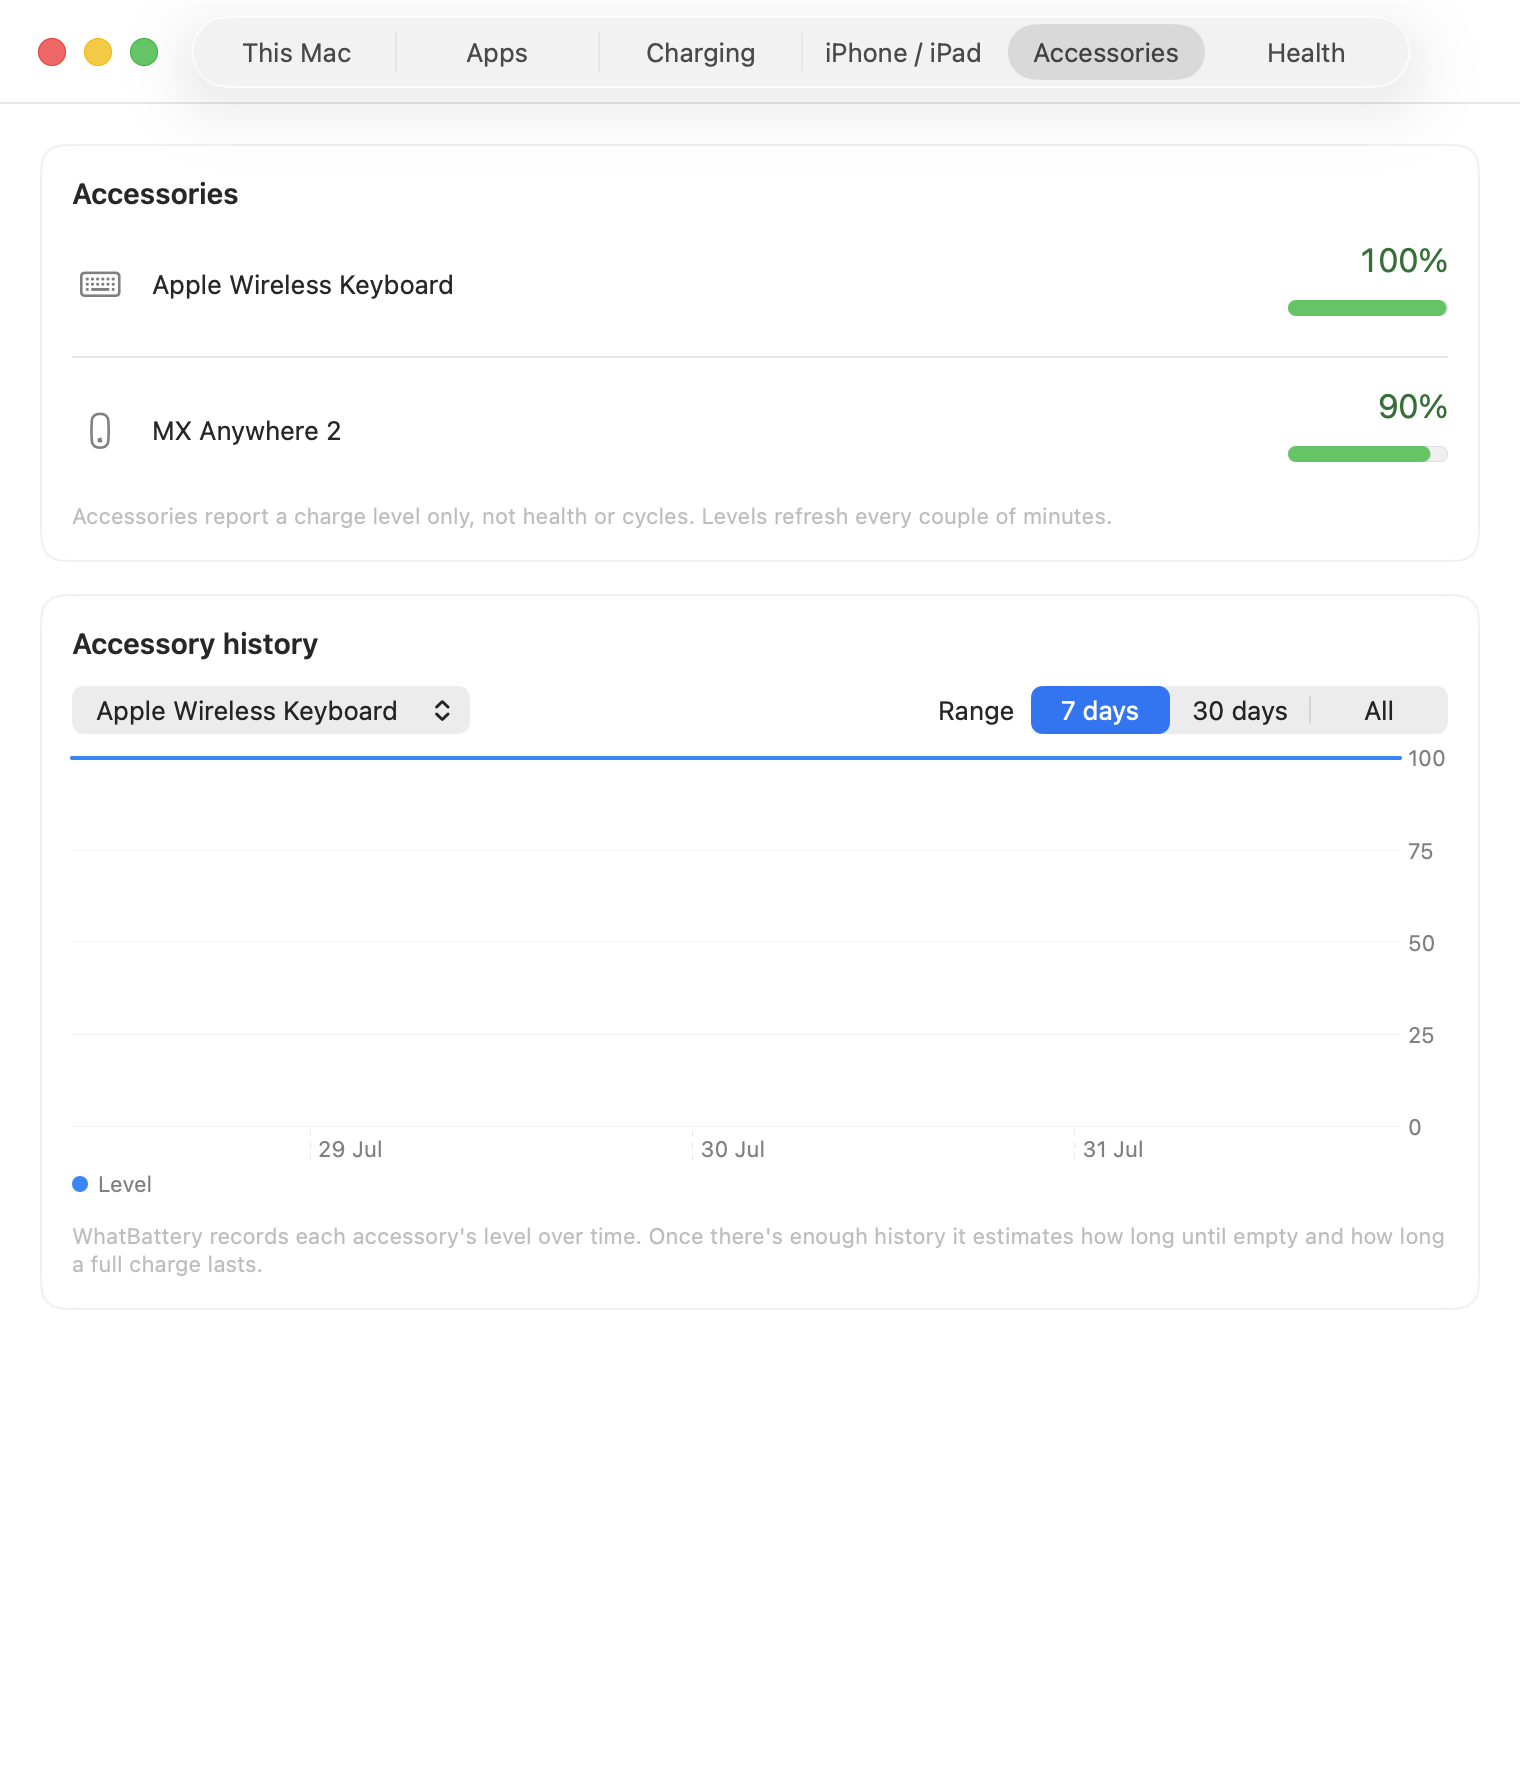
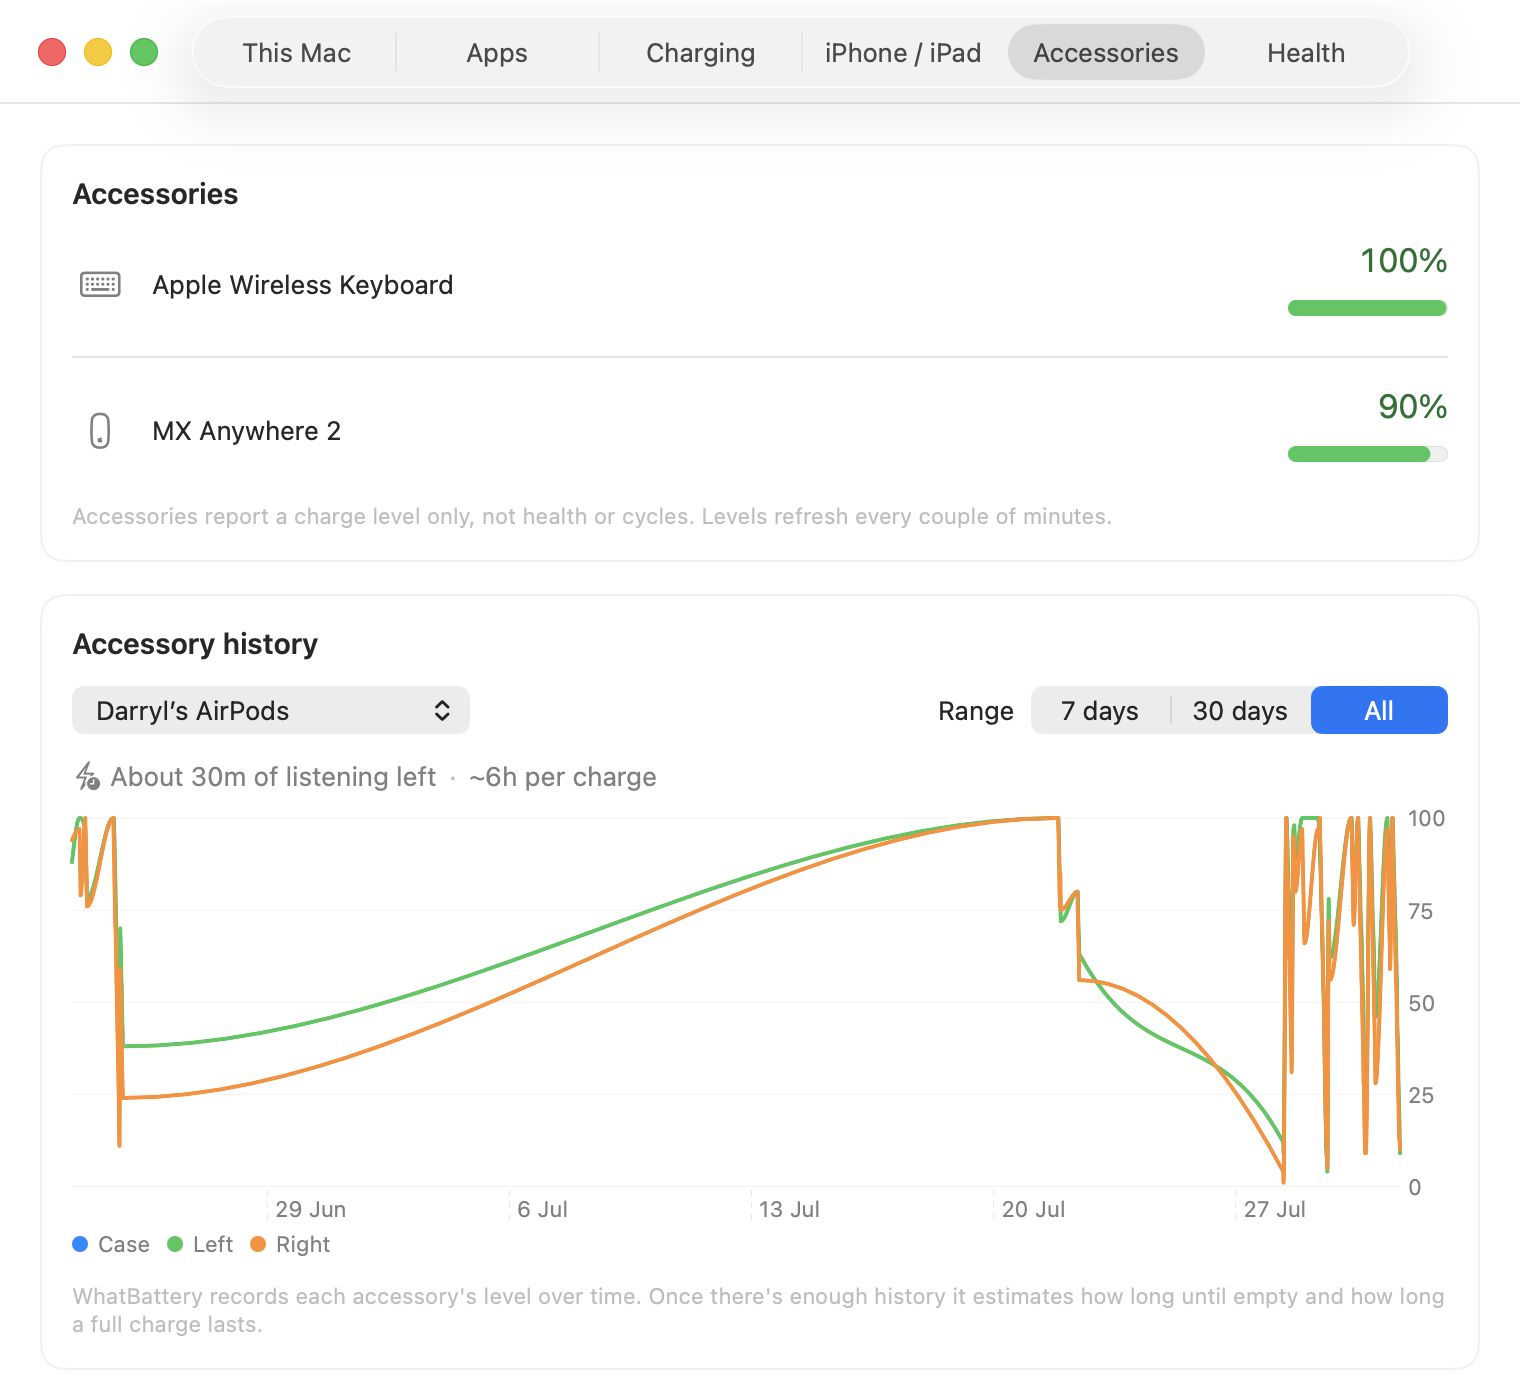
Mirror from private (f3662e4)

diff --git a/docs/pro/index.html b/docs/pro/index.html
@@ -25,7 +25,7 @@
     <link rel="preconnect" href="https://fonts.googleapis.com" />
     <link rel="preconnect" href="https://fonts.gstatic.com" crossorigin />
     <link href="https://fonts.googleapis.com/css2?family=Inter:wght@400;500;600;700;800&display=swap" rel="stylesheet" />
-    <link rel="stylesheet" href="/css/style.css?v=9616c6eed4e6" />
+    <link rel="stylesheet" href="/css/style.css?v=049d00fb9cba" />
   </head>
   <body>
     <a class="skip-link" href="#main">Skip to content</a>
@@ -58,7 +58,9 @@
 
 <section class="soft-section"><div class="wrap feature-lead"><div class="feature-copy"><span class="section-tag">All your devices</span><h2>Bring the iPhone and iPad into the same record.</h2><p>Read connected-device health over USB or Wi-Fi without installing another app. Pro retains sparse, long-term health and cycle history so the devices do not vanish from view when they disconnect.</p><ul class="benefit-list"><li>Health, cycles, temperature, voltage, and live power</li><li>Current-session graph</li><li>Long-term monthly health record</li><li>Mac and connected-device history in one tab</li></ul></div><img src="/img/screenshot-idevice.png" alt="WhatBattery Pro showing a connected iPad Air's battery health and a charge session on the live graph, with a picker to switch to the iPhone" width="440" loading="lazy" /></div></section>
 
-<section><div class="wrap"><div class="section-head center"><span class="section-tag">Five reasons to go Pro</span><h2>Forecast, diagnose, track, prove, and know before it dies.</h2><p>Pro groups the deeper features around the decisions they help you make.</p></div><div class="card-grid two">
+<section><div class="wrap feature-lead"><img src="/img/screenshot-accessories.png" alt="WhatBattery Pro accessory history: AirPods level per bud over a month, with the runtime forecast" width="440" loading="lazy" /><div class="feature-copy"><span class="section-tag">Before it dies</span><h2>Know the keyboard is going flat days before it does.</h2><p>A Bluetooth accessory reports a charge level and nothing else: no health, no cycles, no warning. Pro records that level over time and turns it into a forecast, so a dead mouse in the middle of something is a thing you saw coming.</p><ul class="benefit-list"><li>Level history per accessory, kept for months</li><li>How long is left: days for a mouse, listening time for AirPods</li><li>Roughly how long a full charge lasts</li><li>AirPods tracked per bud and case</li><li>A low-battery alert that fires before it dies, and says how long is left</li><li>Any accessory's level shown in the menu bar</li></ul></div></div></section>
+
+<section class="soft-section"><div class="wrap"><div class="section-head center"><span class="section-tag">Five reasons to go Pro</span><h2>Forecast, diagnose, track, prove, and know before it dies.</h2><p>Pro groups the deeper features around the decisions they help you make.</p></div><div class="card-grid two">
   <article class="card"><div class="card-icon" aria-hidden="true">↘</div><h3>Forecast the replacement</h3><p>Measure wear rate, project the window in which a Mac may reach 80% health, and catch a battery that starts ageing faster than its own trend. No projection at all until the history can support one.</p><a class="text-link" href="/features/history/">Explore battery runway →</a></article>
   <article class="card"><div class="card-icon" aria-hidden="true">W</div><h3>Diagnose the drain</h3><p>Rank your apps by live watts, keep the top users over time, and record how every charge performs. Supported MacBook Pro models also identify chargers that are clearly undersized.</p><a class="text-link" href="/features/power/">Explore power analysis →</a></article>
   <article class="card"><div class="card-icon" aria-hidden="true">iP</div><h3>Track every device</h3><p>Read iPhone and iPad batteries from the Mac, then keep monthly health and cycle history beside the Mac's own record.</p><a class="text-link" href="/features/iphone-ipad/">Explore connected devices →</a></article>
@@ -66,7 +68,7 @@
   <article class="card"><div class="card-icon" aria-hidden="true">BT</div><h3>Know before it dies</h3><p>Watch every Bluetooth accessory's level over time, see how long is left (days for a mouse, listening time for AirPods), and get the warning before it dies, not after.</p><a class="text-link" href="/features/accessories/">Explore accessory forecasts →</a></article>
 </div></div></section>
 
-<section id="compare" class="soft-section"><div class="wrap"><div class="section-head center"><span class="section-tag">Free versus Pro</span><h2>The free app answers “what is happening now?” Pro keeps the story.</h2></div><div class="comparison" role="table" aria-label="WhatBattery Free and Pro comparison">
+<section id="compare"><div class="wrap"><div class="section-head center"><span class="section-tag">Free versus Pro</span><h2>The free app answers “what is happening now?” Pro keeps the story.</h2></div><div class="comparison" role="table" aria-label="WhatBattery Free and Pro comparison">
   <div class="comparison-row" role="row"><span role="columnheader">Capability</span><span role="columnheader">Free</span><span role="columnheader">Pro</span></div>
   <div class="comparison-row" role="row"><span role="cell">Mac health, cycles, condition, live watts, temperature</span><span class="yes" role="cell">Included</span><span class="yes" role="cell">Included</span></div>
   <div class="comparison-row" role="row"><span role="cell">Live Bluetooth accessory levels</span><span class="yes" role="cell">Included</span><span class="yes" role="cell">Included</span></div>
@@ -81,7 +83,7 @@
   <div class="comparison-row" role="row"><span role="cell">Anonymous wear comparison (opt-in, off by default)</span><span class="dash" role="cell">Not included</span><span class="yes" role="cell">Included</span></div>
 </div></div></section>
 
-<section><div class="wrap pricing-layout"><div><span class="section-tag">One simple licence</span><h2>No subscription. No separate device plan.</h2><p class="lede">One key unlocks Pro on up to two Macs. Paste it into Settings on each Mac and keep using the same key after updates.</p><div class="faq-list" style="margin-top:32px;"><div class="faq-item"><h3>What happens after purchase?</h3><p>Stripe completes the payment and the licence key is emailed immediately. Paste it into WhatBattery's Licence settings.</p></div><div class="faq-item"><h3>What if I replace a Mac?</h3><p>Contact support through the GitHub repository and a licence slot can be freed for the replacement.</p></div><div class="faq-item"><h3>What if Pro is not right for me?</h3><p>Purchases have a 14-day money-back guarantee, no questions asked.</p></div></div></div><aside class="pricing-card" aria-label="WhatBattery Pro price"><span class="card-label">One-time purchase</span><span class="price">£9.99</span><span class="price-note">Works on up to 2 Macs</span><ul class="benefit-list"><li>Every Pro feature</li><li>Future updates to the purchased app</li><li>Licence key delivered by email</li><li>14-day money-back guarantee</li></ul><button class="button buy" type="button" data-buy-pro>Buy WhatBattery Pro</button><p class="buy-note">Secure checkout via Stripe.</p><p class="buy-error" data-buy-error role="alert" hidden></p></aside></div></section>
+<section class="soft-section"><div class="wrap pricing-layout"><div><span class="section-tag">One simple licence</span><h2>No subscription. No separate device plan.</h2><p class="lede">One key unlocks Pro on up to two Macs. Paste it into Settings on each Mac and keep using the same key after updates.</p><div class="faq-list" style="margin-top:32px;"><div class="faq-item"><h3>What happens after purchase?</h3><p>Stripe completes the payment and the licence key is emailed immediately. Paste it into WhatBattery's Licence settings.</p></div><div class="faq-item"><h3>What if I replace a Mac?</h3><p>Contact support through the GitHub repository and a licence slot can be freed for the replacement.</p></div><div class="faq-item"><h3>What if Pro is not right for me?</h3><p>Purchases have a 14-day money-back guarantee, no questions asked.</p></div></div></div><aside class="pricing-card" aria-label="WhatBattery Pro price"><span class="card-label">One-time purchase</span><span class="price">£9.99</span><span class="price-note">Works on up to 2 Macs</span><ul class="benefit-list"><li>Every Pro feature</li><li>Future updates to the purchased app</li><li>Licence key delivered by email</li><li>14-day money-back guarantee</li></ul><button class="button buy" type="button" data-buy-pro>Buy WhatBattery Pro</button><p class="buy-note">Secure checkout via Stripe.</p><p class="buy-error" data-buy-error role="alert" hidden></p></aside></div></section>
 
 <section class="cta-band"><div class="wrap cta-grid"><div><h2>Keep enough history to know what comes next.</h2><p>Unlock WhatBattery Pro once on up to two Macs.</p></div><button class="button primary" type="button" data-buy-pro>Buy Pro · £9.99</button></div></section>
 

diff --git a/docs/css/style.css b/docs/css/style.css
@@ -143,7 +143,7 @@ section { padding: 88px 0; }
 .page-hero h1 { font-size: clamp(38px,5vw,58px); }
 .page-hero .lede { max-width: 760px; }
 .page-hero .hero-shot { margin-top: 54px; }
-.page-hero .hero-shot img { display: block; width: 100%; max-width: 1000px; height: auto; margin: 0 auto; border-radius: 15px; filter: drop-shadow(0 26px 40px rgba(15,23,42,.16)); }
+.page-hero .hero-shot img { display: block; width: 100%; max-width: 660px; height: auto; margin: 0 auto; border-radius: 12px; filter: drop-shadow(0 20px 32px rgba(15,23,42,.15)); }
 .page-hero .meta-row { display: flex; flex-wrap: wrap; gap: 10px 24px; margin-top: 24px; color: var(--muted); font-size: 14px; }
 
 .feature-lead { display: grid; grid-template-columns: .9fr 1.1fr; gap: 64px; align-items: center; }

diff --git a/src/css/style.css b/src/css/style.css
@@ -143,7 +143,7 @@ section { padding: 88px 0; }
 .page-hero h1 { font-size: clamp(38px,5vw,58px); }
 .page-hero .lede { max-width: 760px; }
 .page-hero .hero-shot { margin-top: 54px; }
-.page-hero .hero-shot img { display: block; width: 100%; max-width: 1000px; height: auto; margin: 0 auto; border-radius: 15px; filter: drop-shadow(0 26px 40px rgba(15,23,42,.16)); }
+.page-hero .hero-shot img { display: block; width: 100%; max-width: 660px; height: auto; margin: 0 auto; border-radius: 12px; filter: drop-shadow(0 20px 32px rgba(15,23,42,.15)); }
 .page-hero .meta-row { display: flex; flex-wrap: wrap; gap: 10px 24px; margin-top: 24px; color: var(--muted); font-size: 14px; }
 
 .feature-lead { display: grid; grid-template-columns: .9fr 1.1fr; gap: 64px; align-items: center; }

diff --git a/docs/404.html b/docs/404.html
@@ -25,7 +25,7 @@
     <link rel="preconnect" href="https://fonts.googleapis.com" />
     <link rel="preconnect" href="https://fonts.gstatic.com" crossorigin />
     <link href="https://fonts.googleapis.com/css2?family=Inter:wght@400;500;600;700;800&display=swap" rel="stylesheet" />
-    <link rel="stylesheet" href="/css/style.css?v=9616c6eed4e6" />
+    <link rel="stylesheet" href="/css/style.css?v=049d00fb9cba" />
   </head>
   <body>
     <a class="skip-link" href="#main">Skip to content</a>

diff --git a/docs/blog/check-mac-battery-health/index.html b/docs/blog/check-mac-battery-health/index.html
@@ -25,7 +25,7 @@
     <link rel="preconnect" href="https://fonts.googleapis.com" />
     <link rel="preconnect" href="https://fonts.gstatic.com" crossorigin />
     <link href="https://fonts.googleapis.com/css2?family=Inter:wght@400;500;600;700;800&display=swap" rel="stylesheet" />
-    <link rel="stylesheet" href="/css/style.css?v=9616c6eed4e6" />
+    <link rel="stylesheet" href="/css/style.css?v=049d00fb9cba" />
   </head>
   <body>
     <a class="skip-link" href="#main">Skip to content</a>

diff --git a/docs/blog/index.html b/docs/blog/index.html
@@ -25,7 +25,7 @@
     <link rel="preconnect" href="https://fonts.googleapis.com" />
     <link rel="preconnect" href="https://fonts.gstatic.com" crossorigin />
     <link href="https://fonts.googleapis.com/css2?family=Inter:wght@400;500;600;700;800&display=swap" rel="stylesheet" />
-    <link rel="stylesheet" href="/css/style.css?v=9616c6eed4e6" />
+    <link rel="stylesheet" href="/css/style.css?v=049d00fb9cba" />
   </head>
   <body>
     <a class="skip-link" href="#main">Skip to content</a>

diff --git a/docs/blog/iphone-battery-health-from-mac/index.html b/docs/blog/iphone-battery-health-from-mac/index.html
@@ -25,7 +25,7 @@
     <link rel="preconnect" href="https://fonts.googleapis.com" />
     <link rel="preconnect" href="https://fonts.gstatic.com" crossorigin />
     <link href="https://fonts.googleapis.com/css2?family=Inter:wght@400;500;600;700;800&display=swap" rel="stylesheet" />
-    <link rel="stylesheet" href="/css/style.css?v=9616c6eed4e6" />
+    <link rel="stylesheet" href="/css/style.css?v=049d00fb9cba" />
   </head>
   <body>
     <a class="skip-link" href="#main">Skip to content</a>

diff --git a/docs/blog/mac-charging-watts/index.html b/docs/blog/mac-charging-watts/index.html
@@ -25,7 +25,7 @@
     <link rel="preconnect" href="https://fonts.googleapis.com" />
     <link rel="preconnect" href="https://fonts.gstatic.com" crossorigin />
     <link href="https://fonts.googleapis.com/css2?family=Inter:wght@400;500;600;700;800&display=swap" rel="stylesheet" />
-    <link rel="stylesheet" href="/css/style.css?v=9616c6eed4e6" />
+    <link rel="stylesheet" href="/css/style.css?v=049d00fb9cba" />
   </head>
   <body>
     <a class="skip-link" href="#main">Skip to content</a>

diff --git a/docs/cli/index.html b/docs/cli/index.html
@@ -25,7 +25,7 @@
     <link rel="preconnect" href="https://fonts.googleapis.com" />
     <link rel="preconnect" href="https://fonts.gstatic.com" crossorigin />
     <link href="https://fonts.googleapis.com/css2?family=Inter:wght@400;500;600;700;800&display=swap" rel="stylesheet" />
-    <link rel="stylesheet" href="/css/style.css?v=9616c6eed4e6" />
+    <link rel="stylesheet" href="/css/style.css?v=049d00fb9cba" />
   </head>
   <body>
     <a class="skip-link" href="#main">Skip to content</a>

diff --git a/docs/docs/index.html b/docs/docs/index.html
@@ -25,7 +25,7 @@
     <link rel="preconnect" href="https://fonts.googleapis.com" />
     <link rel="preconnect" href="https://fonts.gstatic.com" crossorigin />
     <link href="https://fonts.googleapis.com/css2?family=Inter:wght@400;500;600;700;800&display=swap" rel="stylesheet" />
-    <link rel="stylesheet" href="/css/style.css?v=9616c6eed4e6" />
+    <link rel="stylesheet" href="/css/style.css?v=049d00fb9cba" />
   </head>
   <body>
     <a class="skip-link" href="#main">Skip to content</a>

diff --git a/docs/docs/install/index.html b/docs/docs/install/index.html
@@ -25,7 +25,7 @@
     <link rel="preconnect" href="https://fonts.googleapis.com" />
     <link rel="preconnect" href="https://fonts.gstatic.com" crossorigin />
     <link href="https://fonts.googleapis.com/css2?family=Inter:wght@400;500;600;700;800&display=swap" rel="stylesheet" />
-    <link rel="stylesheet" href="/css/style.css?v=9616c6eed4e6" />
+    <link rel="stylesheet" href="/css/style.css?v=049d00fb9cba" />
   </head>
   <body>
     <a class="skip-link" href="#main">Skip to content</a>

diff --git a/docs/docs/iphone-ipad/index.html b/docs/docs/iphone-ipad/index.html
@@ -25,7 +25,7 @@
     <link rel="preconnect" href="https://fonts.googleapis.com" />
     <link rel="preconnect" href="https://fonts.gstatic.com" crossorigin />
     <link href="https://fonts.googleapis.com/css2?family=Inter:wght@400;500;600;700;800&display=swap" rel="stylesheet" />
-    <link rel="stylesheet" href="/css/style.css?v=9616c6eed4e6" />
+    <link rel="stylesheet" href="/css/style.css?v=049d00fb9cba" />
   </head>
   <body>
     <a class="skip-link" href="#main">Skip to content</a>
